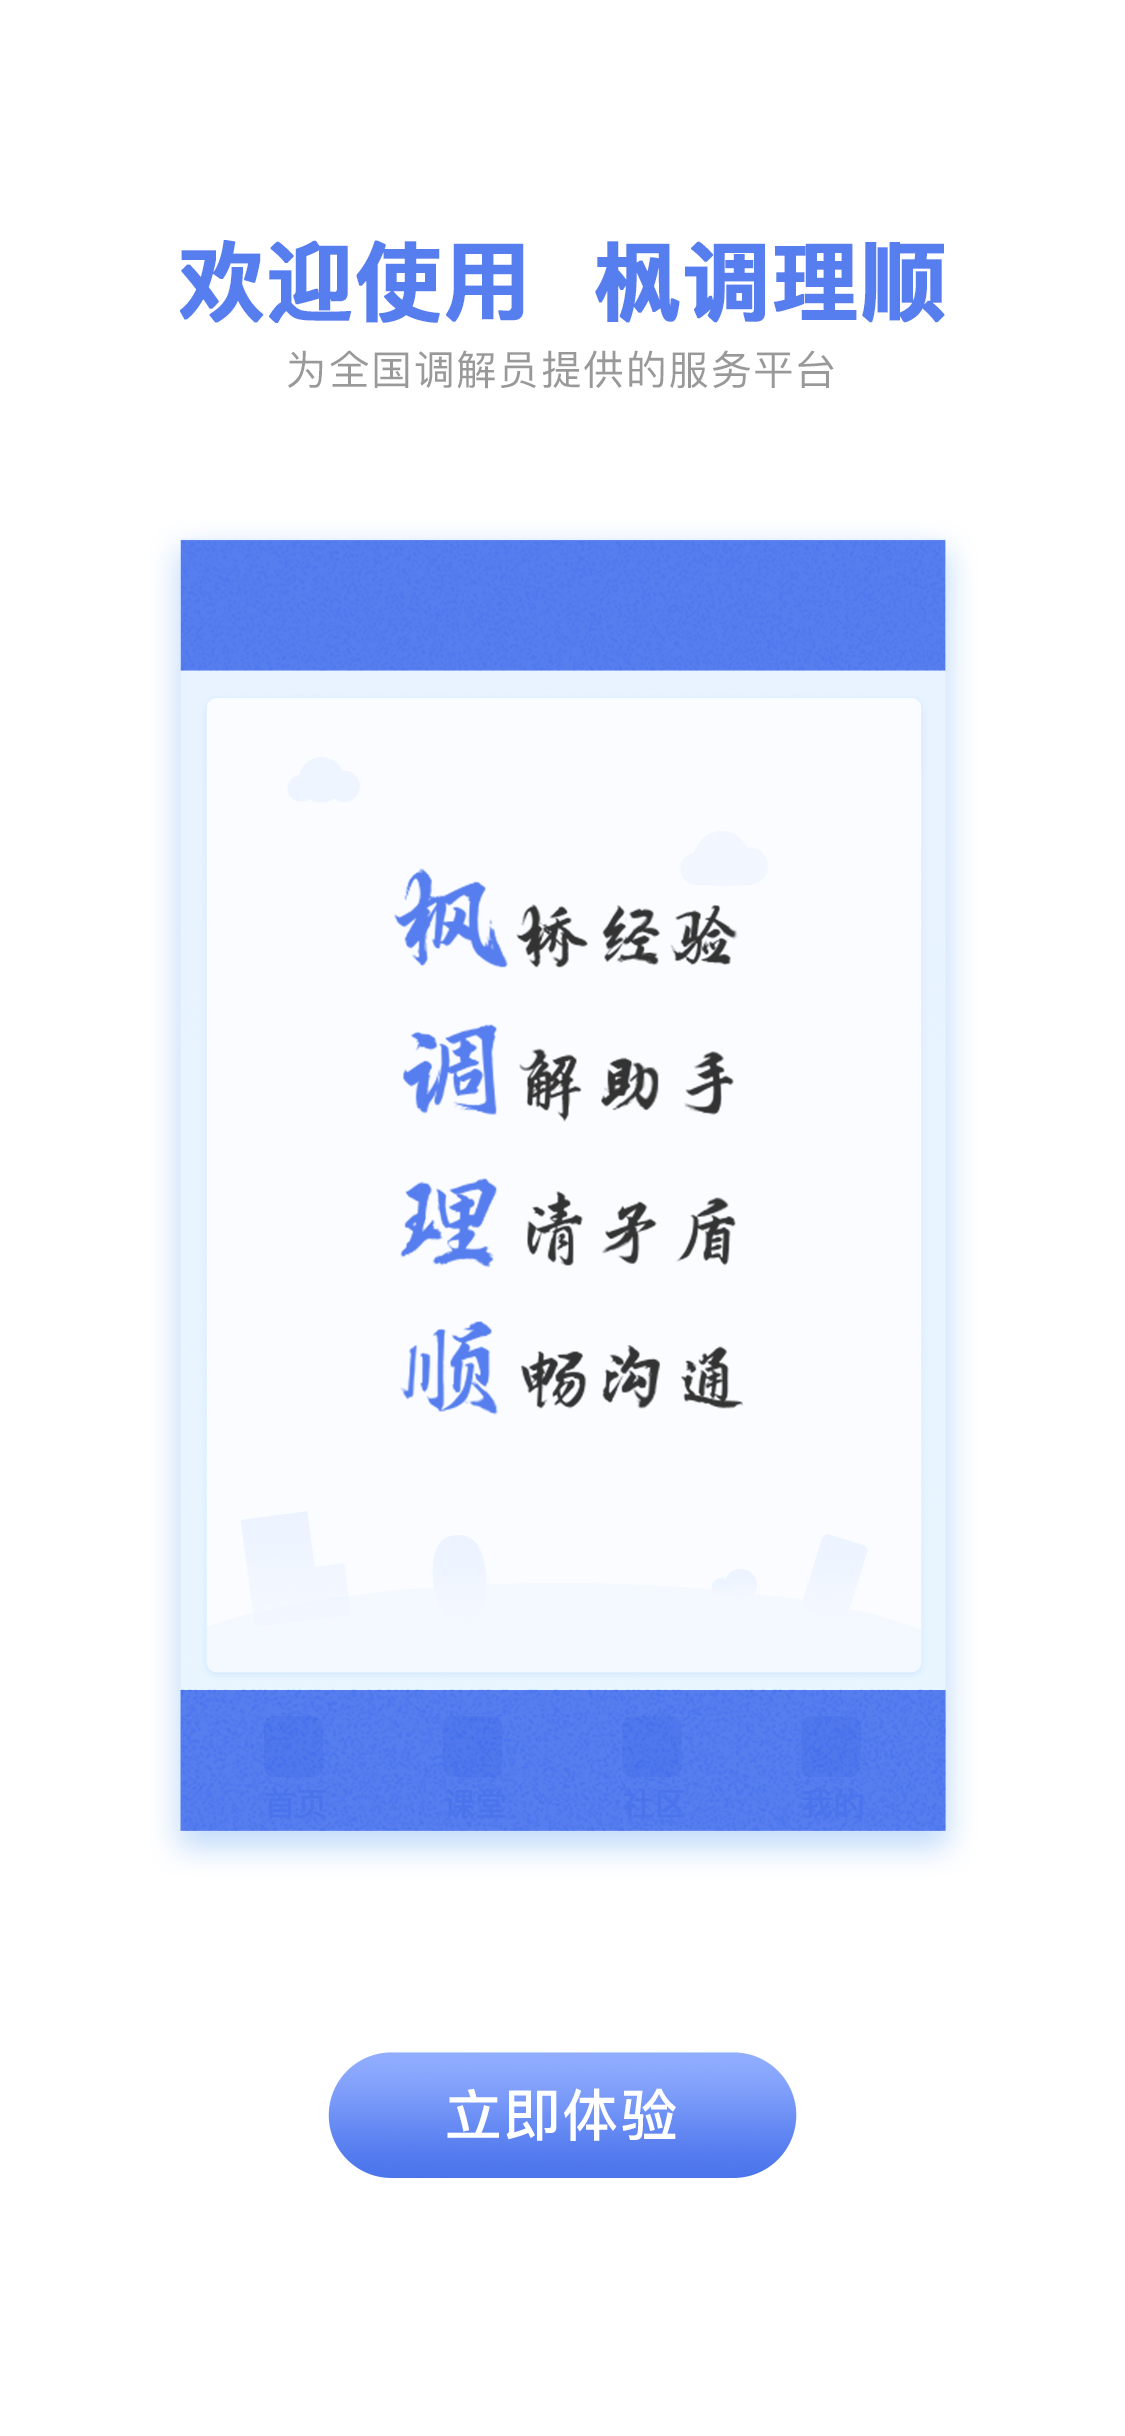
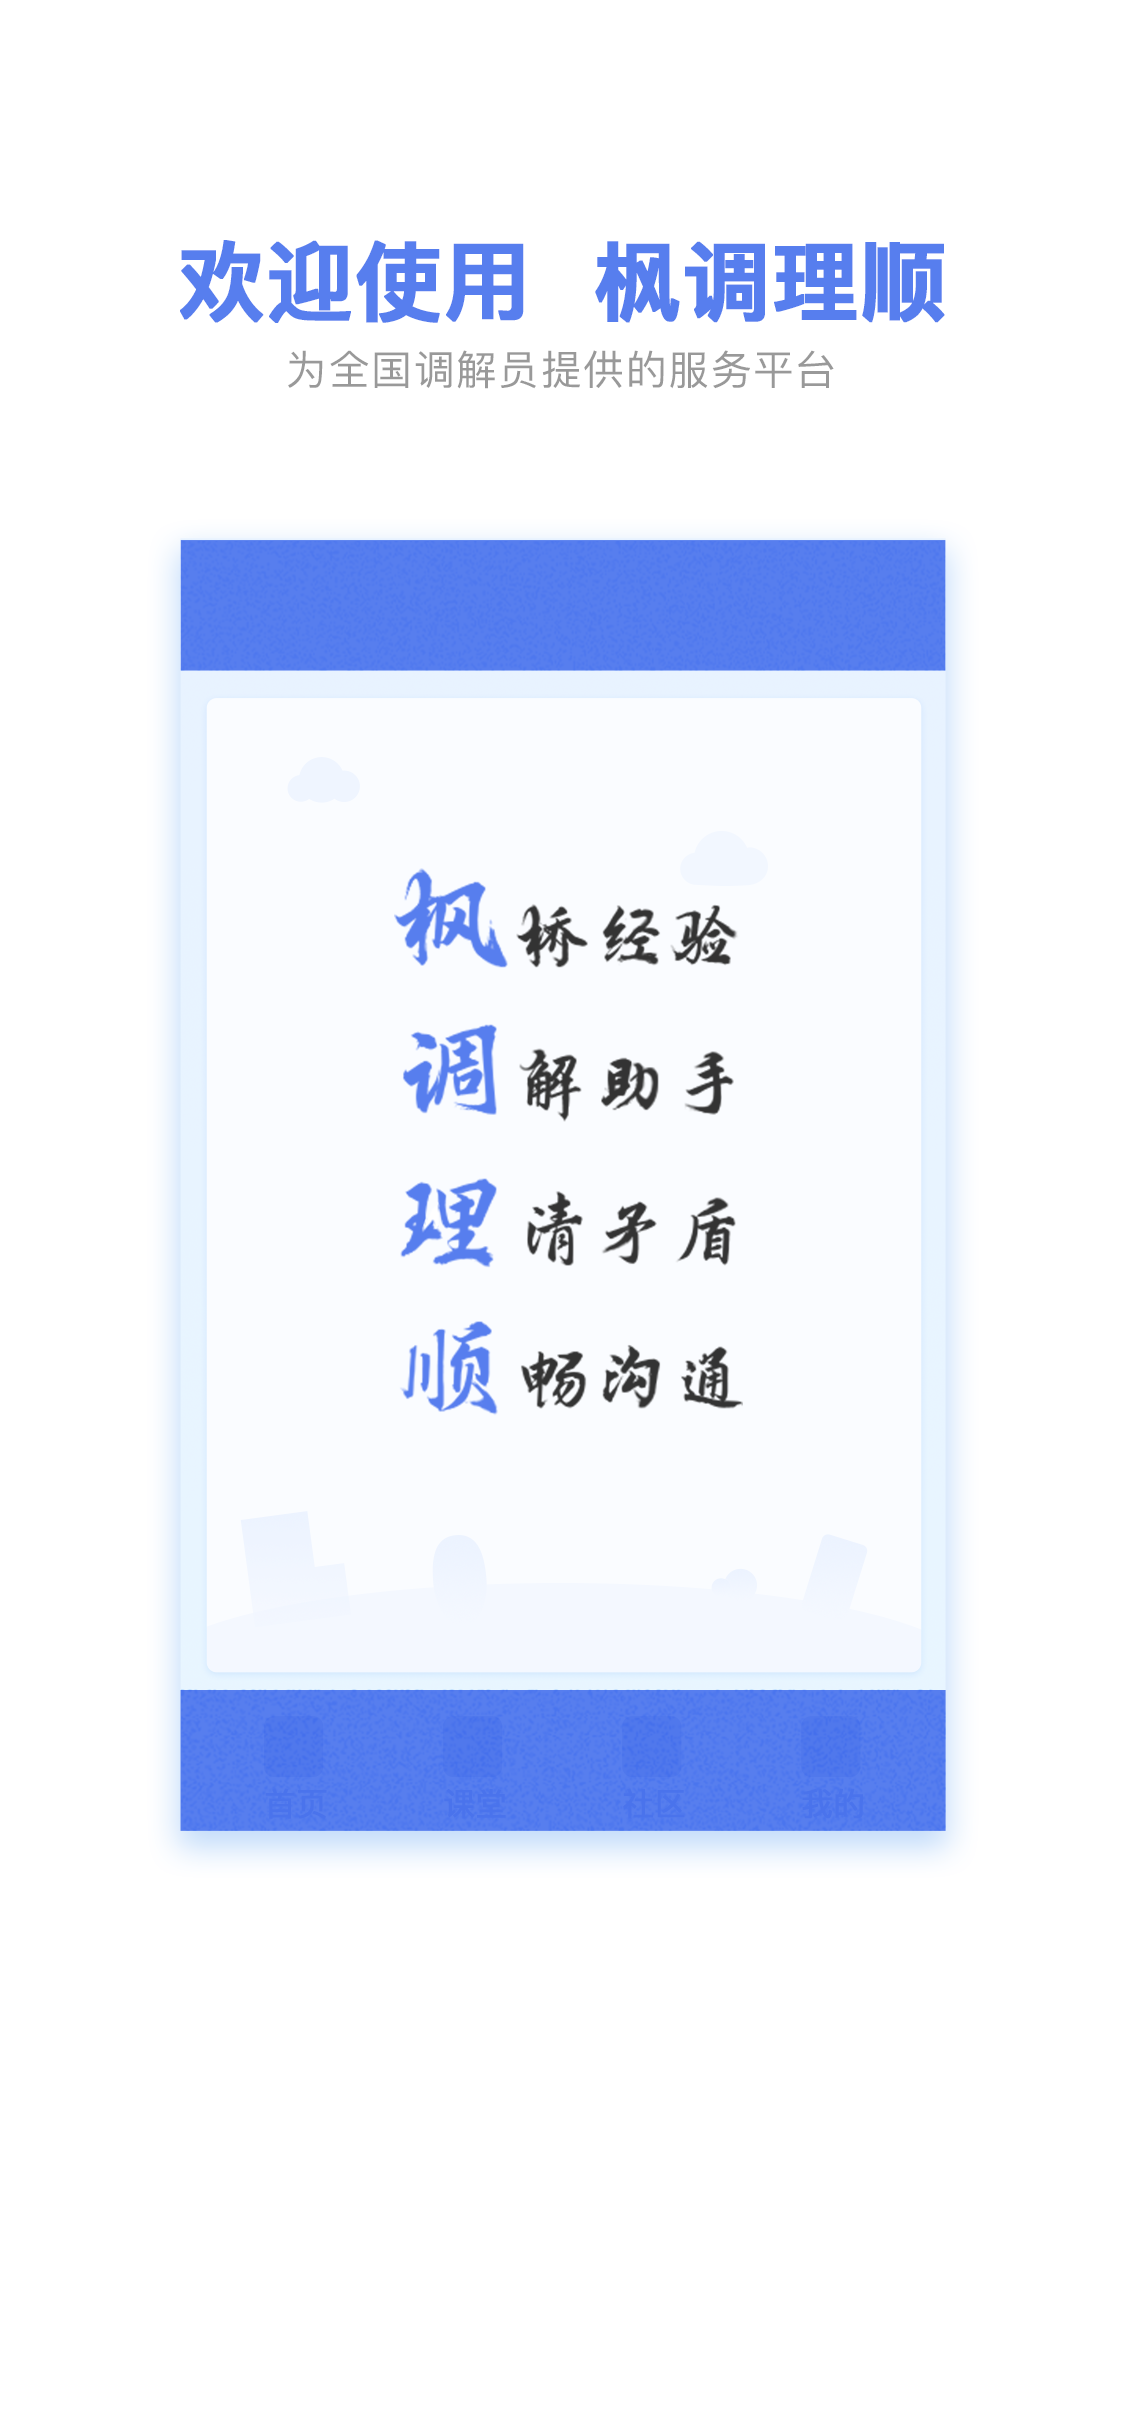
开机引导

Changed region(s): [[0.28, 0.8424, 0.7156, 0.9048]]

diff --git a/fengshun/fengshun/FSStartOpen/FSFirstGuideVC/FSFirstGuideVC.m b/fengshun/fengshun/FSStartOpen/FSFirstGuideVC/FSFirstGuideVC.m
@@ -11,11 +11,13 @@
 #define FSFirstGuide_PageCount  4
 
 @interface FSFirstGuideVC ()
-//<
-//    UIScrollViewDelegate
-//>
+<
+    UIScrollViewDelegate
+>
 
 @property (nonatomic, strong) UIScrollView *m_FirstGuideScrollView;
+
+@property (nonatomic, strong) UIPageControl *m_PageControl;
 
 @end
 
@@ -27,7 +29,7 @@
     // Do any additional setup after loading the view.
     
     self.m_FirstGuideScrollView = [[UIScrollView alloc] initWithFrame:CGRectMake(0, 0, UI_SCREEN_WIDTH, UI_SCREEN_HEIGHT)];
-    //self.m_FirstGuideScrollView.delegate = self;
+    self.m_FirstGuideScrollView.delegate = self;
     self.m_FirstGuideScrollView.pagingEnabled = YES;
     self.m_FirstGuideScrollView.bounces = NO;
     self.m_FirstGuideScrollView.showsHorizontalScrollIndicator = NO;
@@ -102,6 +104,14 @@
     [self.m_FirstGuideScrollView setContentOffset:CGPointMake(0, 0) animated:YES];
     
     [self.view addSubview:self.m_FirstGuideScrollView];
+    
+    self.m_PageControl = [[UIPageControl alloc] initWithFrame:CGRectMake(0, 0, 80.0f, 30.0f)];
+    [self.view addSubview:self.m_PageControl];
+    [self.m_PageControl bm_centerHorizontallyInSuperViewWithTop:(UI_SCREEN_HEIGHT-44.0f)];
+    self.m_PageControl.numberOfPages = FSFirstGuide_PageCount;
+    self.m_PageControl.currentPage = 0;
+    self.m_PageControl.pageIndicatorTintColor = UI_COLOR_B5;
+    self.m_PageControl.currentPageIndicatorTintColor = UI_COLOR_B3;
 }
 
 - (void)didReceiveMemoryWarning
@@ -120,6 +130,26 @@
     if (self.delegate && [self.delegate respondsToSelector:@selector(showFirstGuideVCFinish)])
     {
         [self.delegate showFirstGuideVCFinish];
+    }
+}
+
+
+#pragma mark -
+#pragma mark UIScrollViewDelegate
+
+- (void)scrollViewDidScroll:(UIScrollView *)scrollView
+{
+    CGFloat pageWidth = CGRectGetWidth(self.m_FirstGuideScrollView.bounds);
+    CGFloat pageFraction = self.m_FirstGuideScrollView.contentOffset.x / pageWidth;
+    self.m_PageControl.currentPage = roundf(pageFraction);
+    
+    if (self.m_PageControl.currentPage == FSFirstGuide_PageCount - 1)
+    {
+        self.m_PageControl.hidden = YES;
+    }
+    else
+    {
+        self.m_PageControl.hidden = NO;
     }
 }
 
